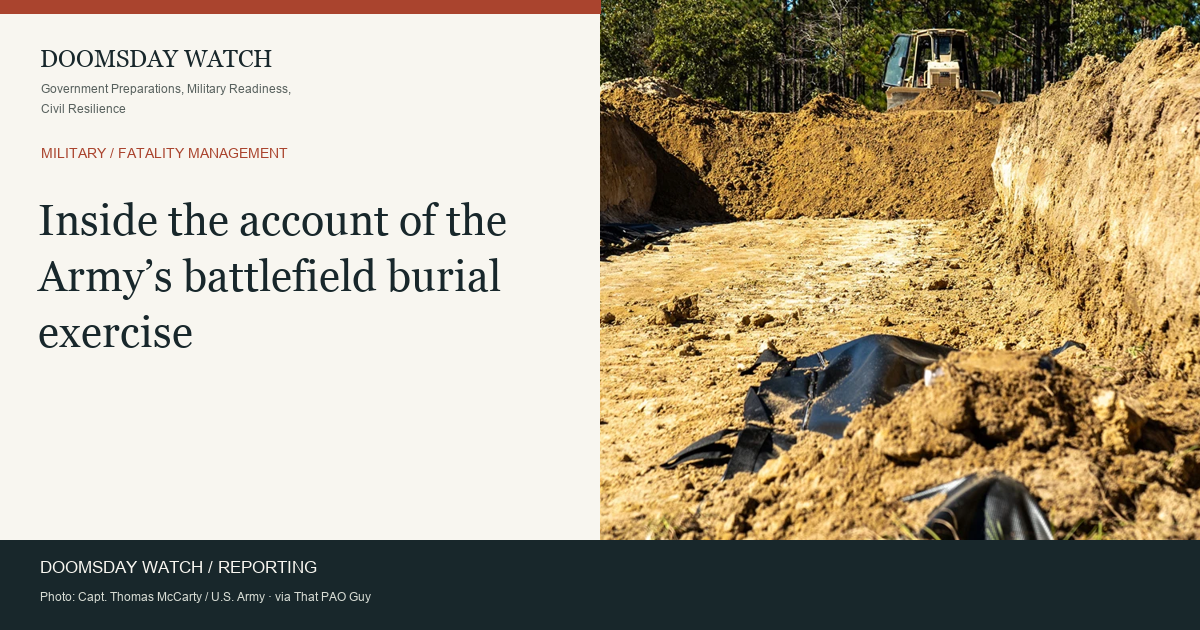
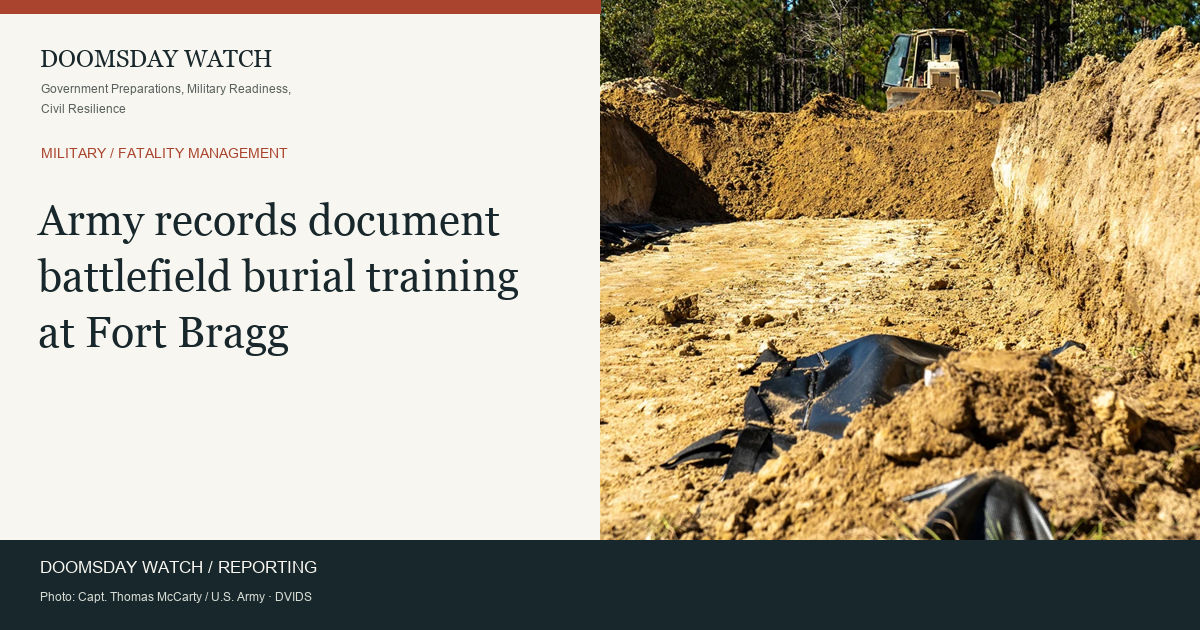
Resolve Army battlefield training source gap with official DVIDS records

Changed region(s): [[0.0308, 0.3317, 0.4317, 0.573], [0.2158, 0.9349, 0.3083, 0.9651]]

diff --git a/reports/2026-11-16_research_review.md b/reports/2026-11-16_research_review.md
@@ -1,0 +1,28 @@
+# Army publication resolves a Dragon Covenant source gap
+
+November 16, 2026
+
+F011 now cites the official DVIDS unit publication and matching image record. The earlier capacity claim remains unverified. The source correction does not establish a measured sustained daily output.
+
+[Official unit account](https://www.dvidshub.net/news/printable/577612) · [Matching photograph](https://www.dvidshub.net/image/10039783/army-tests-battlefield-temporary-interment)
+
+The November 11 IMO statement reports a cumulative commercial-vessel attack count exceeding 130 since February 28. Incident definitions, coverage and a transit denominator are needed for comparisons. The source supplies no insurance quotations.
+
+[IMO statement](https://www.imo.org/en/mediacentre/pressbriefings/pages/imo-secretary-general-calls-for-enforcement-of-maritime-rules.aspx)
+
+## Weekly coverage and remaining records
+
+| Sector | Review outcome |
+|---|---|
+| Military logistics | Primary Dragon Covenant records located. Russian airspace and maritime monitoring and Fujian searches yielded no newly inspected evidence sufficient for a separate story. |
+| Emergency procurement | TRANSCOM search returned a household-goods program audit. It concerns a different program from the open charter-award lead and cannot verify that award. |
+| Geopolitical developments | IMO's November statement adds a dated official cumulative count. Independent event-level investigation remains open. |
+| Civilian infrastructure | Searches for new cyber advisories and the FORTRESS memorandum yielded no primary record that changes the current findings. |
+| Medical preparedness | GAO's May 2024 stockpile coordination study supplies historical evidence of readiness gaps and the scope of a 62-jurisdiction survey. Its product summary was inspected. The PDF download returned403. |
+| Financial and insurance | The newer IMO statement establishes reported shipping-security context. A route- and coverage-matched premium series remains missing. |
+| Continuity of government | Searches for continuity exercises and command-aircraft baselines produced no inspected comparable flight-hour series. The private-retreat watch still needs original permit versions and property records. |
+| Astronomical hazards | ESA search results provide a corroborating lunar-update lead. The earlier dated NASA finding remains the inspected basis for the object's March2026 reassessment. A current all-object and solar assessment remains incomplete. |
+
+The three previously missing hosted indicator artifacts from November12–14 were downloaded into ignored internal storage. Their collection times and failure metadata are preserved. Original source bytes remain separate from those derived snapshots.
+
+The eight-sector screen is a collection review. Quantitative comparison still depends on matched dates, geography, definitions and coverage.

diff --git a/docs/MASTER_ASSESSMENT.md b/docs/MASTER_ASSESSMENT.md
@@ -49,3 +49,7 @@ F012–F015 add source reviews of acknowledged Mar-a-Lago protective capabilitie
 The DOE registers support a rise in Section 202(c) order paperwork in matched January–October windows. The recorded totals are 1, 1, 11 and 65 documents in 2023–2026. These totals include extensions and repeat facilities. Determining whether distinct emergencies or actual dispatch rose requires linking the orders by underlying incident and checking operating data. The [weekly review](../reports/2026-11-09_research_review.md) records the comparison and the limits of the evidence across all eight sectors.
 
 The IMO statement provides primary documentary support for the February 28 start date of the conflict and subsequent shipping disruption. Premium figures remain unverified. The iX release provides the exact amount the issuer reported for Wafermine development. It describes work toward authorization, with agency award and FDA records still needed. NASA's March 2026 lunar update supersedes the earlier 2024 YR4 estimate for the December 2032 encounter. These findings do not establish a shared undisclosed cause.
+
+## November 16 source review
+
+DVIDS supplies the official unit publication and matching photograph for F011, resolving its primary-source access gap. C006 still requires independently measured capacity evidence. The [weekly review](../reports/2026-11-16_research_review.md) records the new IMO statement, a historical stockpile-coordination benchmark and the remaining collection gaps.

diff --git a/docs/CORRECTIONS.md b/docs/CORRECTIONS.md
@@ -28,3 +28,7 @@ Record material evidence qualifications and analytical revisions using stable cl
 ### November 2, 2026 — Public alert scope
 
 Removed the non-reading DEFCON placeholder from public indicators and future collection. Added inspected official warning-system references for the United States, Japan, South Korea and Shanghai, with explicit limits on geography, archival delay and live access. No current national warning state is inferred from these directory entries.
+
+### November 16, 2026 — Dragon Covenant primary record
+
+The official unit article and matching photograph are now accessible through DVIDS. F011 cites these records. The earlier reproduced account shares the author and upstream origin. C006 remains unverified pending independent evidence of sustained capacity. [Unit article](https://www.dvidshub.net/news/printable/577612) · [Image record](https://www.dvidshub.net/image/10039783/army-tests-battlefield-temporary-interment).
